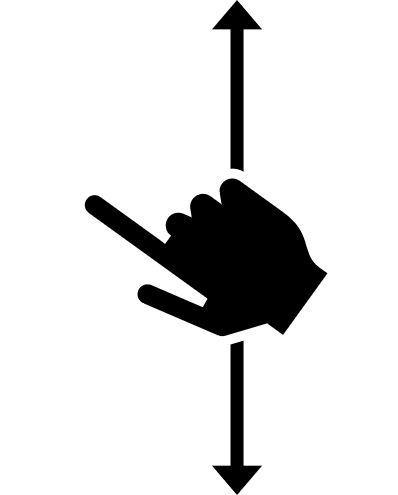
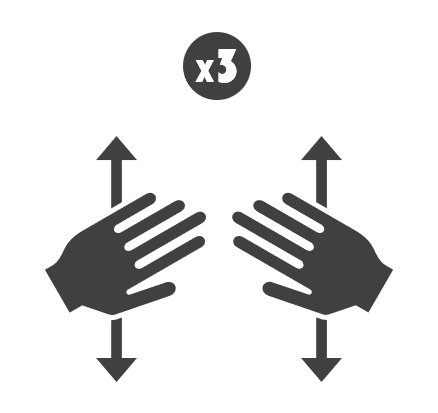
UI improvements ; gesture carousel finished

Changed region(s): [[0.0905, 0.0, 0.9045, 1.0]]

diff --git a/js/view/gameView.js b/js/view/gameView.js
@@ -164,7 +164,7 @@ function _renderGestures() {
     const htmlIdentifierPreviousGesture = '.level-gestures .previous-gesture';
 
     // Next
-    if(nextGestureIndex >= 0 && nextGestureIndex < gestureIllustrationsUrl.length) {
+    if (nextGestureIndex >= 0 && nextGestureIndex < gestureIllustrationsUrl.length) {
         let gestureIllustrationUrlNext = gestureIllustrationsUrl[nextGestureIndex];
         _setGestureIllustration(htmlIdentifierNextGesture, gestureIllustrationUrlNext);
     } else {
@@ -172,7 +172,7 @@ function _renderGestures() {
     }
 
     // Current gesture
-    if(currentGestureIndex >= 0 && currentGestureIndex < gestureIllustrationsUrl.length) {
+    if (currentGestureIndex >= 0 && currentGestureIndex < gestureIllustrationsUrl.length) {
         let gestureIllustrationUrlCurrent = gestureIllustrationsUrl[currentGestureIndex];
         _setGestureIllustration(htmlIdentifierCurrentGesture, gestureIllustrationUrlCurrent);
     } else {
@@ -180,7 +180,7 @@ function _renderGestures() {
     }
 
     // Previous
-    if(previousGestureIndex >= 0 && previousGestureIndex < gestureIllustrationsUrl.length) {
+    if (previousGestureIndex >= 0 && previousGestureIndex < gestureIllustrationsUrl.length) {
         let gestureIllustrationUrlPrevious = gestureIllustrationsUrl[previousGestureIndex];
         _setGestureIllustration(htmlIdentifierPreviousGesture, gestureIllustrationUrlPrevious);
     } else {
@@ -315,14 +315,16 @@ function _onAudioPlayerUpdate(level) {
                     // Update gesture display.
                     _goToNextGesture();
                     _renderGestures();
+                    _isCurrentGestureTranslucent(false);
 
                     // Recognition.
                     checkGestureNow(milestoneToCheckWith.gestureId, (recognitionState) => {
-                        log.debug(`gameView._onAudioPlayerUpdate : ${recognitionState}`);
+                        log.debug(`gameView._onAudioPlayerUpdate : recognition : ${recognitionState}`);
                         if (recognitionState === false) {
                             decreaseLevelLive(level.levelId);
+                            _isCurrentGestureTranslucent(true);
                         }
-                        _updateGestureFeedback(recognitionState); // Make a timeout after ... sec with transition. TIMEOUT_FEEDBACK
+                        _updateGestureFeedback(recognitionState);
                     });
                 }
             }
@@ -390,6 +392,18 @@ function _setGestureIllustration(htmlIdentifier, gestureIllustrationUrl) {
  */
 function _resetGestureIllustration(htmlIdentifier) {
     $(htmlIdentifier).html('<span></span>');
+}
+
+/**
+ * Set the translucency of the current gesture.
+ * @param isTranslucent {boolean} True if the current gesture must be translucent ; false otherwise.
+ */
+function _isCurrentGestureTranslucent(isTranslucent) {
+    if (isTranslucent) {
+        $('.current-gesture').addClass('translucent');
+    } else {
+        $('.current-gesture').removeClass('translucent');
+    }
 }
 
 /**

diff --git a/css/style.css b/css/style.css
@@ -95,27 +95,36 @@
     font-size: 15pt;
 }
 
+
+/* Level gestures */
+
 .level-gestures {
+    display: flex;
+    justify-content: center;
+    align-items: center;
     height: 500px;
 }
 
 .level-gestures img {
-    width: 50%;
-    height: 50%;
+    width: 70%;
 }
 
-.previous-gesture, .next-gesture {
-    opacity: 0.5;
+.translucent {
+    opacity: 0.2;
 }
 
 /* Gesture feedback */
 
 .gesture-feedback{
-    min-height: 50px;
+    display: flex;
+    justify-content: center;
+    align-items: center;
+
+    min-height: 75px;
 }
 
 .gesture-feedback-current {
-    font-size: 20pt;
+    font-size: 30pt;
 }
 
 /* Level lives */
@@ -175,7 +184,7 @@
 
     z-index: 1;
 
-    background-color: #f7ff16;
+    background-color: #ffffff;
 }
 
 .audio-player-custom-play-control {

diff --git a/js/service/GestureService.js b/js/service/GestureService.js
@@ -40,7 +40,7 @@ class LeapMotionGestureService extends GestureService {
 
         this.recognizableGestures = new Map();
         this.recognizableGestures.set("HAMMER", new GestureHammerLeapMotion("HAMMER", 3, "/assets/data/gestures-illustrations/hammer.png", []));
-        this.recognizableGestures.set("HAMMER_FAST", new GestureHammerLeapMotion("HAMMER_FAST", 2, "/assets/data/gestures-illustrations/hammer.png", []));
+        this.recognizableGestures.set("HAMMER_FAST", new GestureHammerLeapMotion("HAMMER_FAST", 2, "/assets/data/gestures-illustrations/hammer-fast.png", []));
         this.recognizableGestures.set("ROTATION", new GestureRotationLeapMotion("ROTATION", 1.5, "/assets/data/gestures-illustrations/rotation.png", []));
     }
 

diff --git a/html/level.html b/html/level.html
@@ -26,11 +26,11 @@
     </div>
 
     <div class="row level-gestures">
-        <div class="col previous-gesture">
+        <div class="col previous-gesture translucent">
         </div>
         <div class="col-6 current-gesture">
         </div>
-        <div class="col next-gesture">
+        <div class="col next-gesture translucent">
         </div>
     </div>
 
